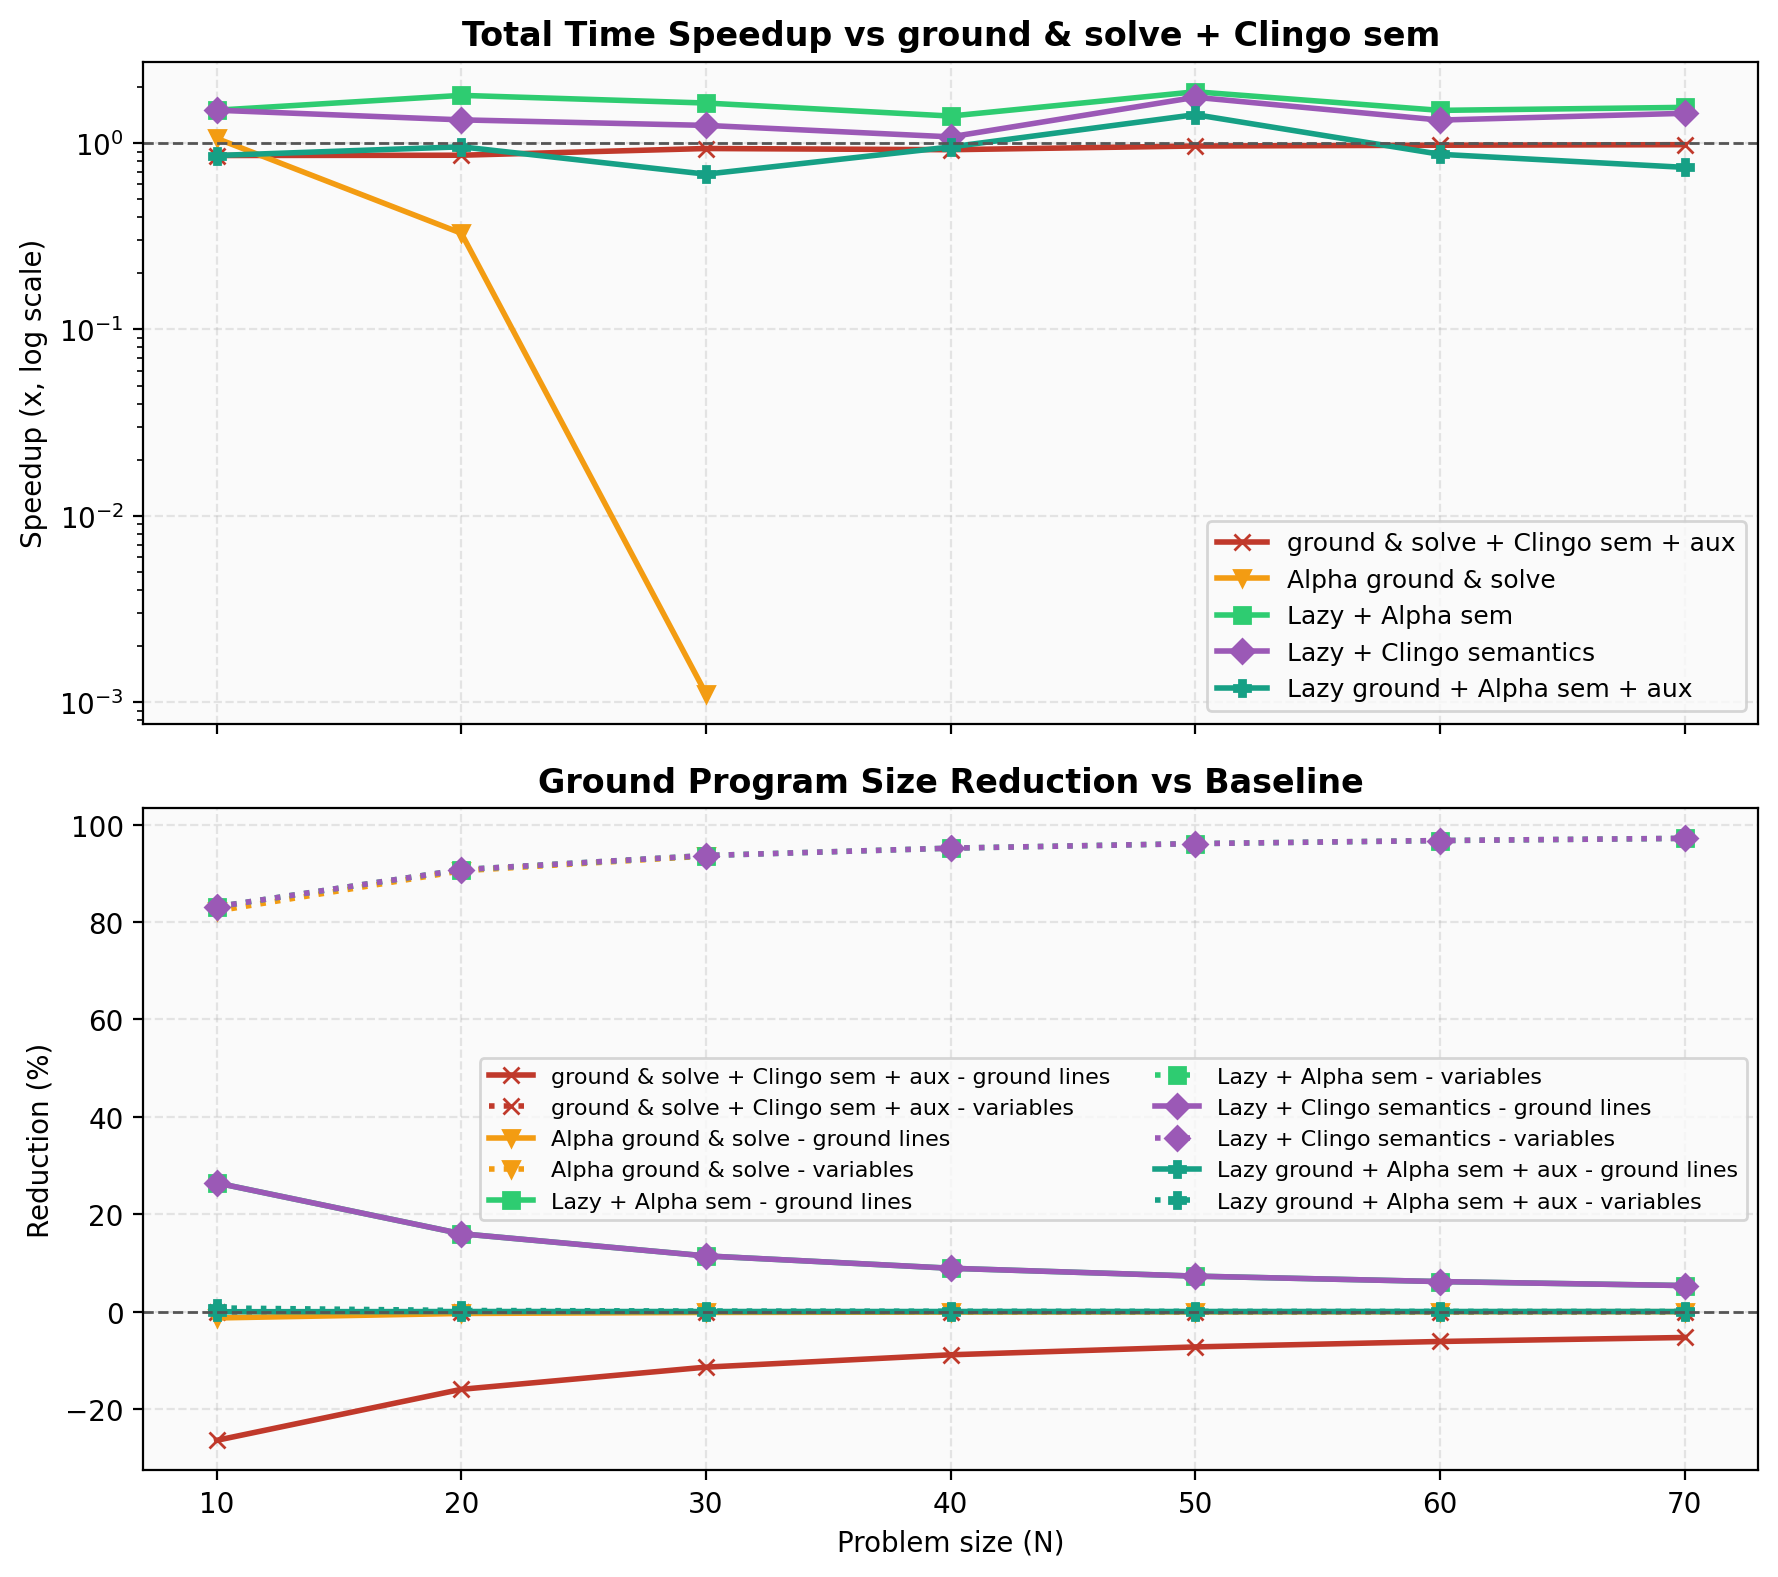
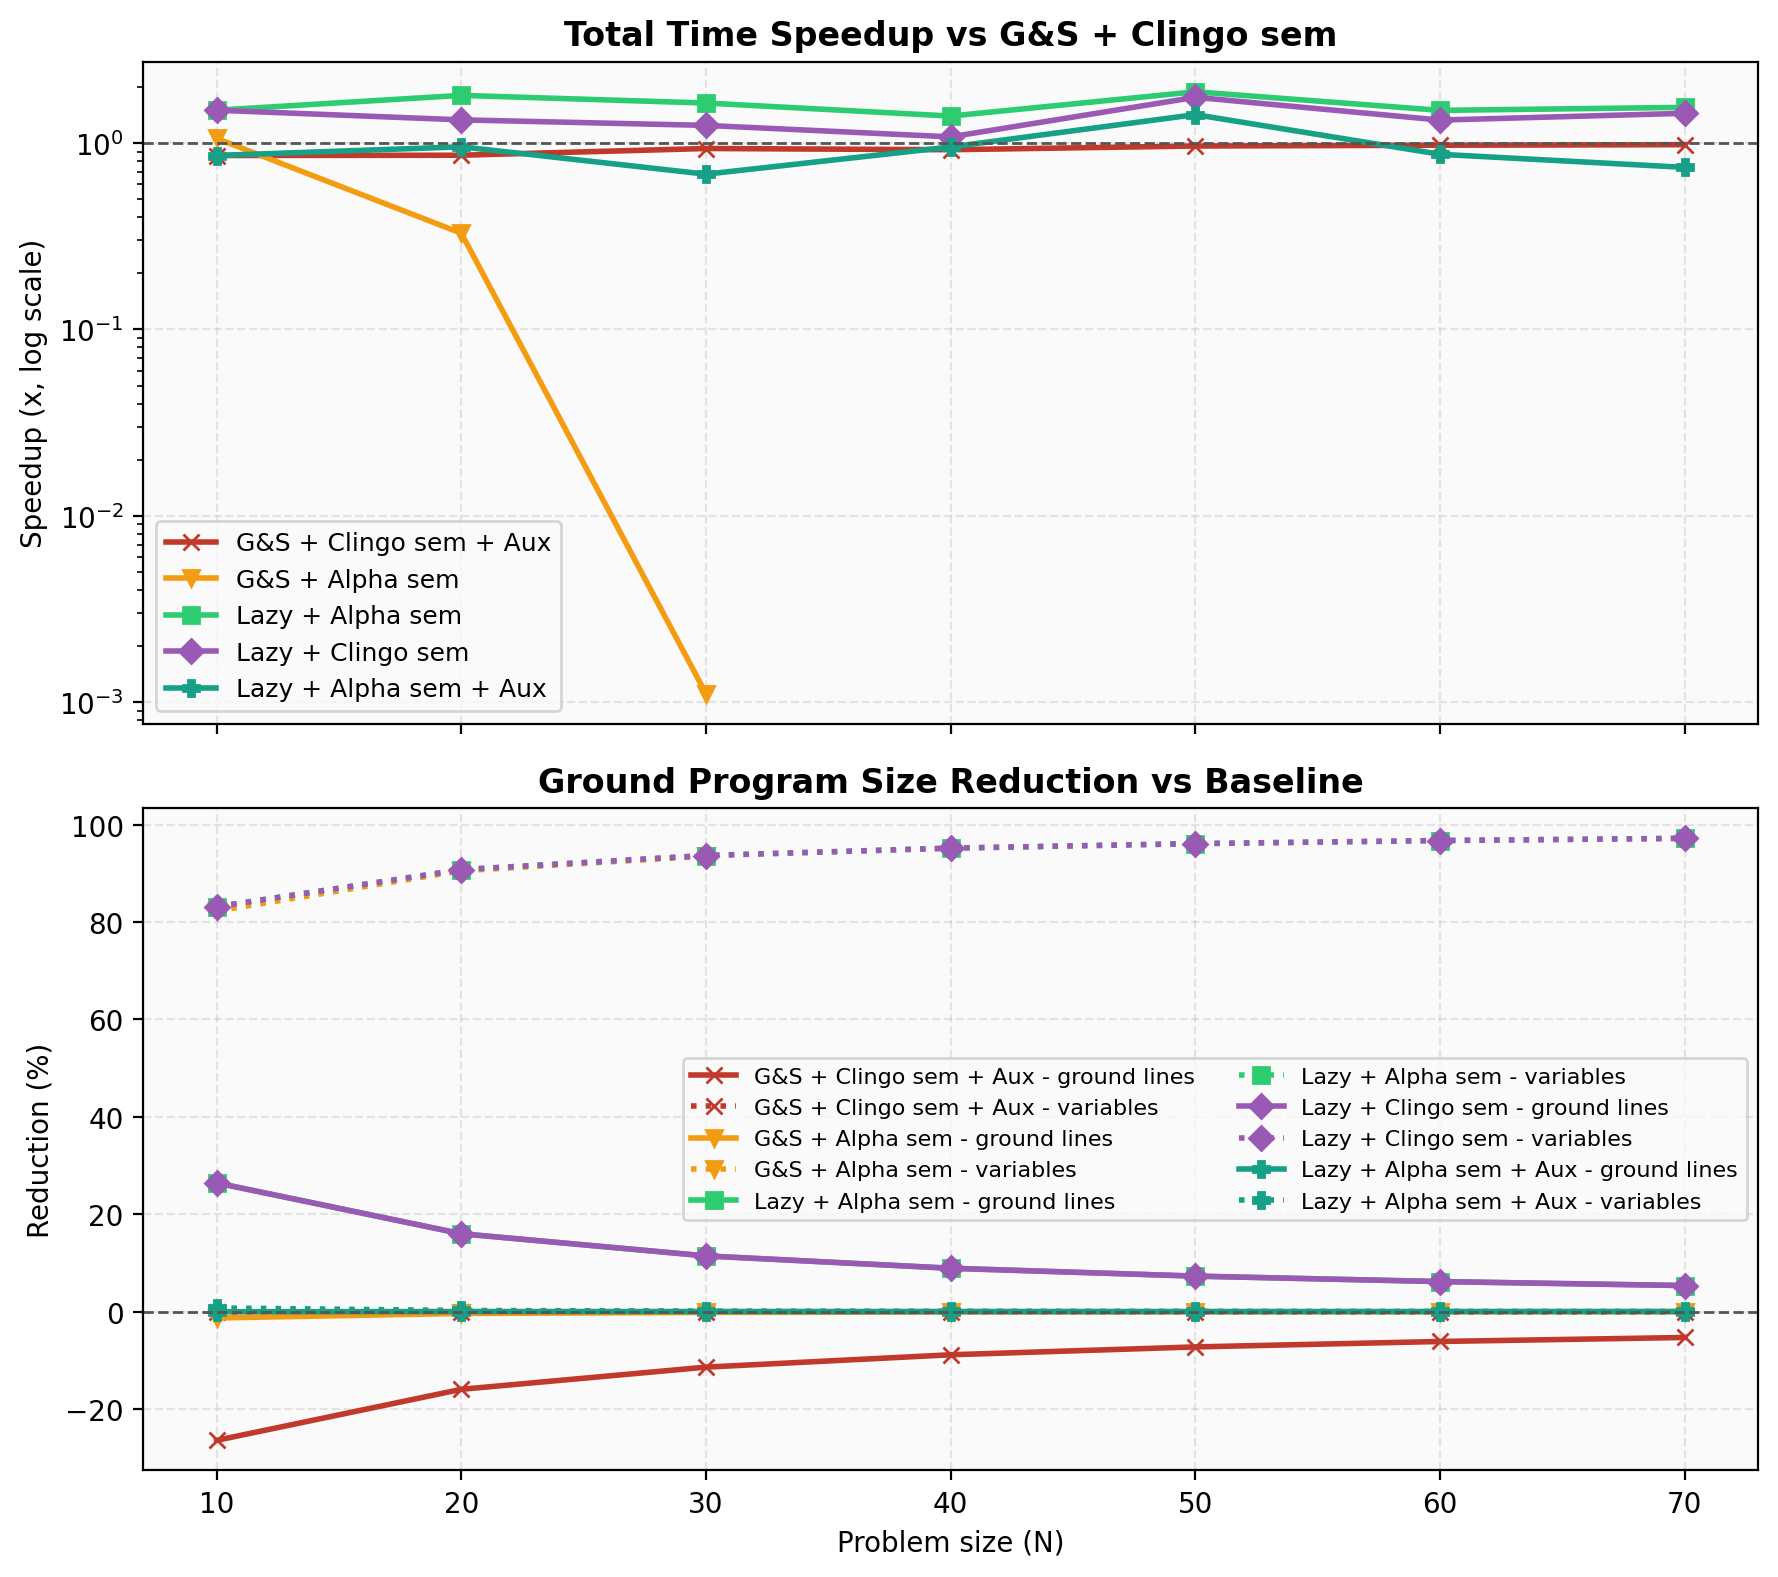
bene

diff --git a/test_folder/gen_graphs.py b/test_folder/gen_graphs.py
@@ -5,7 +5,7 @@ Reads CSV result files from ./test-results/ and generates charts
 with mean ± standard deviation for each CDNL metric.
 
 BSP results:  ./test-results/bsp_results.csv    → ./graphs/bsp/standard/
-                                                  ./graphs/bsp/no_asgs/
+                                                  ./graphs/bsp/no_<excluded>/
 PUP results:  ./test-results/pup_double_results.csv   → ./graphs/pup/
               ./test-results/pup_doublev_results.csv  → ./graphs/pup/
 
@@ -154,12 +154,12 @@ PLOT_CONFIGS = [
 
 BSP_THEME = {
     "variant_labels": {
-        "std": "ground & solve + Clingo sem",
-        "std_aux": "ground & solve + Clingo sem + aux",
-        "asgs": "Alpha ground & solve",
+        "std": "G&S + Clingo sem",
+        "std_aux": "G&S + Clingo sem + Aux",
+        "asgs": "G&S + Alpha sem",
         "lg": "Lazy + Alpha sem",
-        "cslg": "Lazy + Clingo semantics",
-        "auxlg": "Lazy ground + Alpha sem + aux",
+        "cslg": "Lazy + Clingo sem",
+        "auxlg": "Lazy + Alpha sem + Aux",
         "colg": "Lazy + Optimized Constraint (BSP_colg.lp)",
     },
     "variant_files": {
@@ -565,6 +565,9 @@ def _split_exclude_selectors(values) -> list:
     """Expand repeated/comma-separated exclude selectors from the CLI."""
     selectors = []
     for value in values or []:
+        if isinstance(value, (list, tuple)):
+            selectors.extend(_split_exclude_selectors(value))
+            continue
         for item in value.split(","):
             item = item.strip()
             if item:
@@ -1366,15 +1369,17 @@ def parse_args():
     parser.add_argument(
         "--exclude",
         action="append",
+        nargs="+",
         default=[],
         help=(
             "Exclude variants/files from generated charts. Repeat the option or "
-            "use commas. Examples: --exclude BSP_asgs.lp --exclude lg,cslg"
+            "use commas/spaces. Examples: --exclude BSP_asgs.lp --exclude lg cslg"
         ),
     )
     parser.add_argument(
         "--bsp-exclude",
         action="append",
+        nargs="+",
         default=[],
         help=(
             "Like --exclude, but only for BSP charts. Accepts variant ids "
@@ -1412,25 +1417,27 @@ def main():
         bsp_exclude_selectors,
         context="BSP",
     )
-    bsp_user_excluded = set(bsp_user_excluded_order)
-    focused_order = bsp_user_excluded_order or ["asgs"]
-    focused_excluded = set(focused_order)
-    focused_names = ", ".join(
-        _variant_dir_identifier(bsp_theme, variant) for variant in focused_order
-    )
     bsp_graph_sets = [
         (set(), "BSP (Balanced Sum Partition)", ""),
-        (
-            focused_excluded,
-            f"BSP (Balanced Sum Partition, without {focused_names})",
-            f" (without {focused_names})",
-        ),
     ]
+    if bsp_user_excluded_order:
+        focused_excluded = set(bsp_user_excluded_order)
+        focused_names = ", ".join(
+            _variant_dir_identifier(bsp_theme, variant)
+            for variant in bsp_user_excluded_order
+        )
+        bsp_graph_sets.append(
+            (
+                focused_excluded,
+                f"BSP (Balanced Sum Partition, without {focused_names})",
+                f" (without {focused_names})",
+            )
+        )
 
     seen_bsp_dirs = set()
     for graph_excluded, label, title_suffix_text in bsp_graph_sets:
         excluded = graph_excluded if graph_excluded else set()
-        ordered_excluded = focused_order if excluded else []
+        ordered_excluded = bsp_user_excluded_order if excluded else []
         dirname = exclusion_dir_name(bsp_theme, excluded, ordered_excluded)
         if dirname in seen_bsp_dirs:
             continue
@@ -1480,7 +1487,7 @@ def main():
         legacy_out = os.path.join(base_out, "bsp", "standard")
         process_csv(legacy_csv, legacy_out, BSP_THEME,
                     "BSP (Legacy)", title_suffix="legacy",
-                    excluded_variants=bsp_user_excluded)
+                    excluded_variants=set(bsp_user_excluded_order))
         processed_any = True
 
     if not processed_any:
